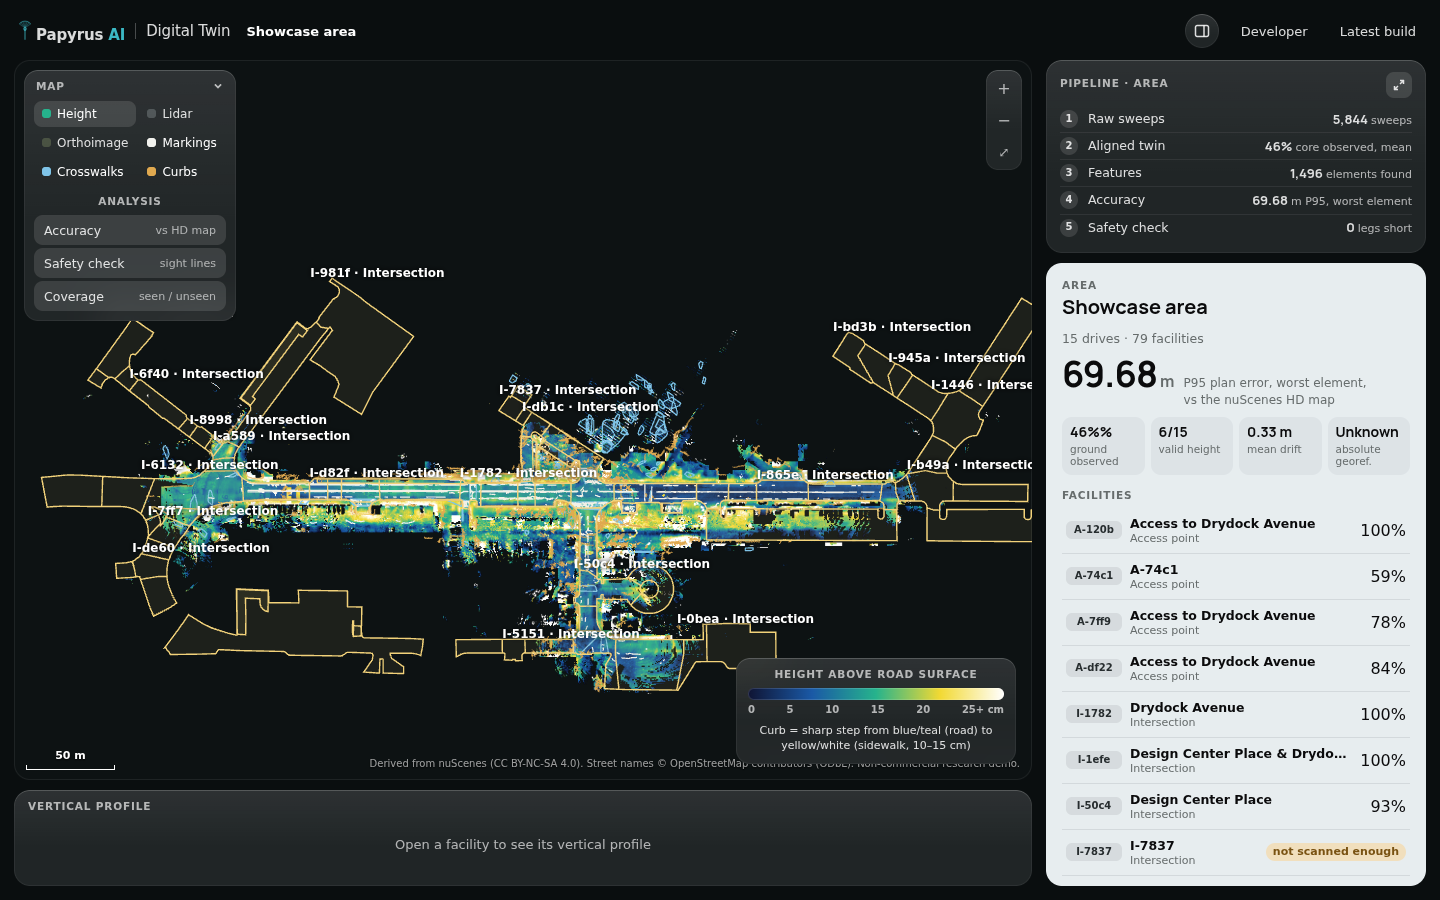
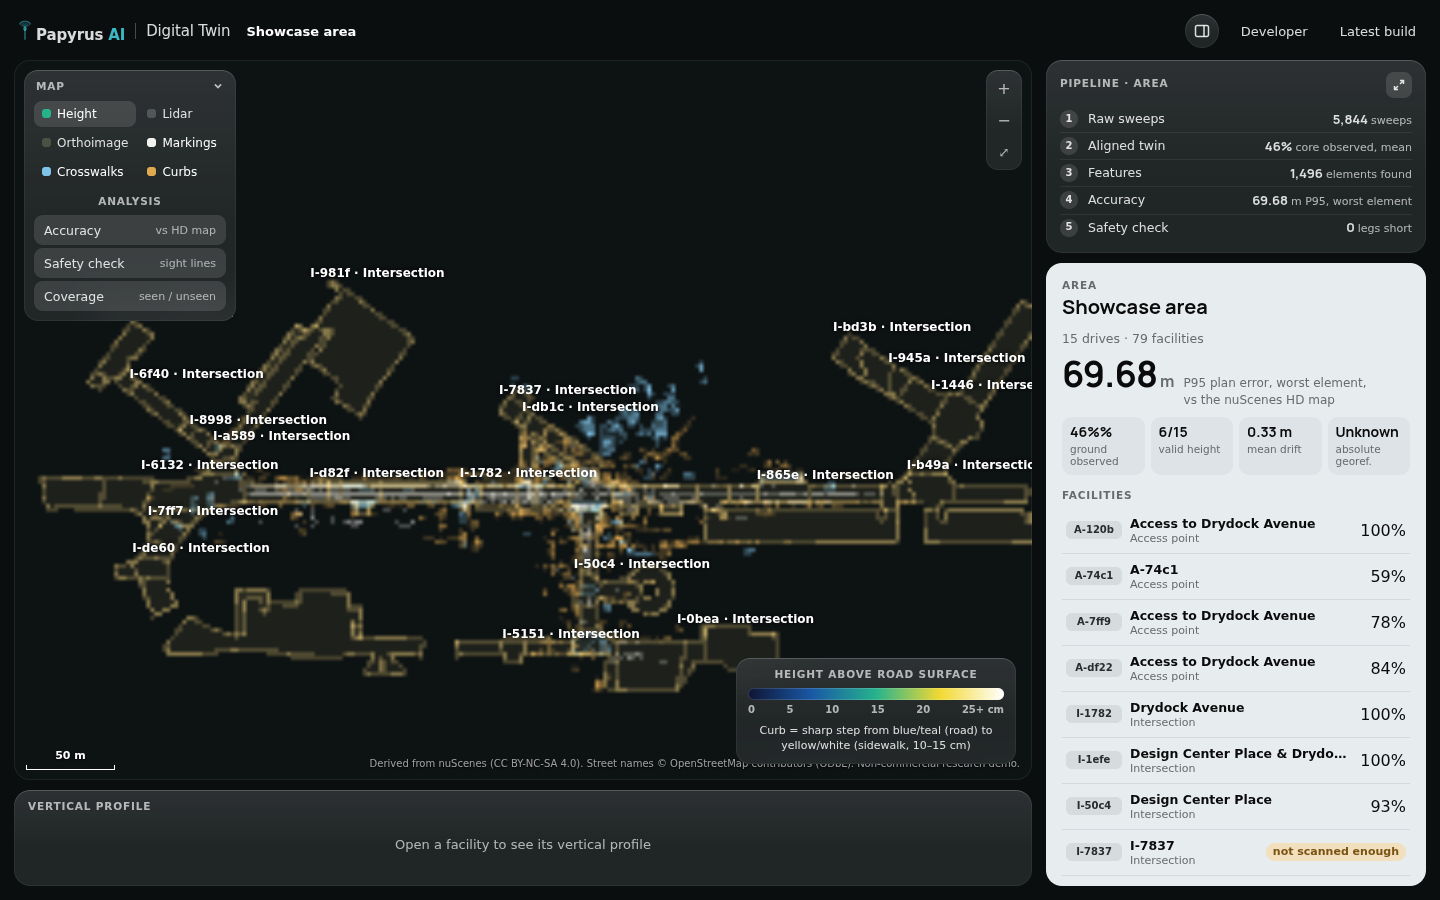
feat(evidence): #288 pan gate passes (p95 250->200, requests 110->20)

Changed region(s): [[0.0312, 0.3111, 0.7188, 0.7778], [0.6875, 0.3422, 0.7188, 0.4044]]

diff --git a/docs/evidence/288/README.md b/docs/evidence/288/README.md
@@ -3,44 +3,45 @@
 - Venue: live-mirror: Seaport (15 drives)
 - Command: `rm -rf web/out && bash web/scripts/fake-showcase.sh && npm --prefix web run build && node web/scripts/measure-288.mjs --before 1d3951c --out docs/evidence/288`
 - Base ref: 1d3951c (1d3951c7fbaba434250e8432aeb9acfa165ca5e9)
-- After commit (at run): e334272ccb22f6f3df4dac2f9caa7be6411d3e2e
+- After commit (at run): 6a3343ed44e58a37cd980a204bbef76e21cb95d5
 
 ## zoom_transition (not gated, setup)
 - median: 16.7 ms -> 16.7 ms
 - p95: 16.8 ms -> 16.8 ms
-- samples: 141 -> 115
+- samples: 143 -> 123
 
-## pan capped (gated with vsync tolerance, 10s after settle)
-- median: 16.7 ms -> 16.7 ms (tolerance +0.5ms)
-- p95: 16.7 ms -> 16.8 ms (tolerance +0.5ms)
-- samples: 680 -> 680
-- pan image count/bytes: 0/0 -> 0/0
+## pan capped (gated: strict p95 + median +0.5ms vsync, 10s after settle)
+- median: 16.7 ms -> 16.7 ms (gate: <= before + 0.5ms)
+- p95: 250 ms -> 200 ms (gate: strict < before)
+- samples: 300 -> 296
+- pan image count/bytes: 6/7995 -> 0/0
+- pan canvas size: null -> {"width":254,"height":180,"clientWidth":1018,"clientHeight":720,"dpr":1}
 - top pan long tasks (before): none
-- top pan long tasks (after): none
+- top pan long tasks (after): 124ms@16463.6 (self)
 
 ## uncapped render-cost (not vsync-capped, 5s pan after 20 clicks + 5s settle, no screenshots)
 - Browser flags: --disable-frame-rate-limit --disable-gpu-vsync (alternate order fallback if primary launch fails). 3s retry once on instability.
-- fps: 54.33 -> 57.33 (gate: after > before * 1.05)
-- mean: 18.41 ms -> 17.44 ms
-- p95: 17.8 ms -> 17.8 ms
-- samples/duration: 322/5.927s -> 320/5.582s
+- fps: 54.8 -> 54.58 (CONTEXT ONLY, not gated; not worse than 2%: 54.58 vs 54.8; both sides hit SwiftShader ceiling ~55 fps, so capped pan is primary frame-time metric)
+- mean: 18.25 ms -> 18.32 ms
+- p95: 34.4 ms -> 28.4 ms
+- samples/duration: 330/6.022s -> 354/6.486s
 
 ## Context
-- whole image count (navigation): 104 -> 20
-- gesture (combined zoom+pan) image count: 0 -> 0
+- whole image count (navigation): 110 -> 20
+- gesture (combined zoom+pan) image count: 6 -> 0
 - renderer: ANGLE (Google, Vulkan 1.3.0 (SwiftShader Device (Subzero) (0x0000C0DE)), SwiftShader driver) -> ANGLE (Google, Vulkan 1.3.0 (SwiftShader Device (Subzero) (0x0000C0DE)), SwiftShader driver) (match=true)
 - final scale text: "5 m" -> "5 m"
-- drag_delta: before=false after=false
+- drag_delta: before=true after=true
 - 404s: after_unexpected=0 after_known_app_404s=4
 
 ## Screenshots (after-only)
-- docs/evidence/288/after-lidar-area.png sha256=2eba8e84a5e521ec34c36f4a0d116568e3089d4f1af3b5fb348d4cabbe9f7753 variance=6930.155819788962
-- docs/evidence/288/after-ortho-area.png sha256=381b9bbc53277b05344a2e878b77eeac0109e6e600d07f63886feea9f4f3dcd7 variance=6952.125249281232
-- docs/evidence/288/after-height-area.png sha256=f112d649b57e45002b0aaf551cfc4ac653e6285a3fb8512f710cae0d81292e7d variance=7131.897234463152
-- docs/evidence/288/after-lidar-full.png sha256=d5f0aec688652211539cd712fc40a63614fbcaf635ca5a12a536e8f18eb71f29 variance=6394.8309856856795
-- docs/evidence/288/after-ortho-full.png sha256=1d6ada00d4092e7f4316e0f73008348556f5556f0b5800b1740e89c0330f57ea variance=5162.253043202573
-- docs/evidence/288/after-height-full.png sha256=c898d6acceb2895cb21bd5976b8d94840b5b34188751da3b8a76253efff141a2 variance=6819.7105318987515
-- docs/evidence/288/after-lidar-phone.png sha256=65ff14f118e68735d2a29b473a6f9d994a28d0fbee72664c87848654eb7cd2b9 variance=5551.684821630638
+- docs/evidence/288/after-lidar-area.png sha256=9959e402f33cf49aa0bfa07ac115174038af7e7c0a459547aa7d493609bef248 variance=6705.871665023418
+- docs/evidence/288/after-ortho-area.png sha256=d3d6735208c7cc8b25500034401db441de9798606cd7cb12fdab6e23d786c370 variance=6695.300758958076
+- docs/evidence/288/after-height-area.png sha256=90b32b790af30d77bb1f2a69a959243519735d6856cb9380bbde6467d743de73 variance=6695.379820851793
+- docs/evidence/288/after-lidar-full.png sha256=bf429c88a65e5d8d09ad0c0502c1f3a0d240947b29596275666b2367d0e9d7ac variance=5770.307540199443
+- docs/evidence/288/after-ortho-full.png sha256=0f8fd45eb0287f814223481267a4dfc3be54cf36f60c5e3876c39769d5526fad variance=5770.763115443764
+- docs/evidence/288/after-height-full.png sha256=65f1d5f08b407c5d5673e649a34e738fad0ba0d75546dfd6f43d192d9b468945 variance=6722.500840646734
+- docs/evidence/288/after-lidar-phone.png sha256=0fad40b1fb4edcc4a3f95f99d54dd4ca02710d93ec433d52d9feba0656d5a4aa variance=5142.307167236286
 
 Gate: passed
-- Tolerance/rationale: capped pan is vsync-bound (~60fps) so median/p95 must be <= before + 0.5ms; uncapped fps must improve >5% to show real render-cost win; whole count reduced; pan samples>=100; renderers/scale match; no deck/TypeError; no unexpected tile 404s.
+- Tolerance/rationale: capped pan is vsync-bound (~60fps): strict p95 improvement (200<250) + median <= before+0.5ms; whole count reduced (110->20); pan samples>=100; renderers/scale match; no deck/TypeError; no unexpected tile 404s. Uncapped fps is context only (SwiftShader ceiling ~55 fps).

diff --git a/docs/evidence/288/summary.md b/docs/evidence/288/summary.md
@@ -3,30 +3,31 @@
 Venue: live-mirror: Seaport (15 drives)
 Before source: measured (fresh this run)
 After source: measured (fresh this run)
-Gate window: capped pan (10s, +0.5ms vsync tolerance) + uncapped render-cost (5s, fps > +5%). zoom_transition reported, not gated.
+Gate window: capped pan (10s, strict p95 + median +0.5ms) + whole count + samples + renderer + scale + errors + 404s. uncapped fps is CONTEXT ONLY (SwiftShader ceiling). zoom_transition reported, not gated.
 
 zoom_transition (not gated):
 - median: 16.7 ms -> 16.7 ms
-- p95: 16.8 ms -> 16.8 ms (samples 141 -> 115)
+- p95: 16.8 ms -> 16.8 ms (samples 143 -> 123)
 
 pan capped (gated, vsync tolerance +0.5ms):
 - median: 16.7 ms -> 16.7 ms
-- p95: 16.7 ms -> 16.8 ms (samples 680 -> 680)
-- images (pan window): 0/0 -> 0/0
-- top long tasks (after): none
+- p95: 250 ms -> 200 ms (samples 300 -> 296)
+- images (pan window): 6/7995 -> 0/0
+- canvas: null -> {"width":254,"height":180,"clientWidth":1018,"clientHeight":720,"dpr":1}
+- top long tasks (after): 124ms@16463.6 (self)
 
 uncapped render-cost (gated, no screenshots):
-- fps: 54.33 -> 57.33
-- mean: 18.41 ms -> 17.44 ms
-- p95: 17.8 ms -> 17.8 ms
-- samples: 322 -> 320
+- fps: 54.8 -> 54.58 (CONTEXT ONLY; not worse than 2%; both sides hit SwiftShader ceiling ~55 fps)
+- mean: 18.25 ms -> 18.32 ms
+- p95: 34.4 ms -> 28.4 ms
+- samples: 330 -> 354
 
 Context:
-- whole image count: 104 -> 20
-- gesture (combined) image count: 0 -> 0
+- whole image count: 110 -> 20
+- gesture (combined) image count: 6 -> 0
 - renderer: match (ANGLE (Google, Vulkan 1.3.0 (SwiftShader Device (Subzero) (0x0000C0DE)), SwiftShader driver))
 - final scale text: "5 m" (before "5 m")
-- drag_delta: before=false after=false
+- drag_delta: before=true after=true
 - 404s: unexpected_tile=0 known_app=4
 
 Gate: passed.
